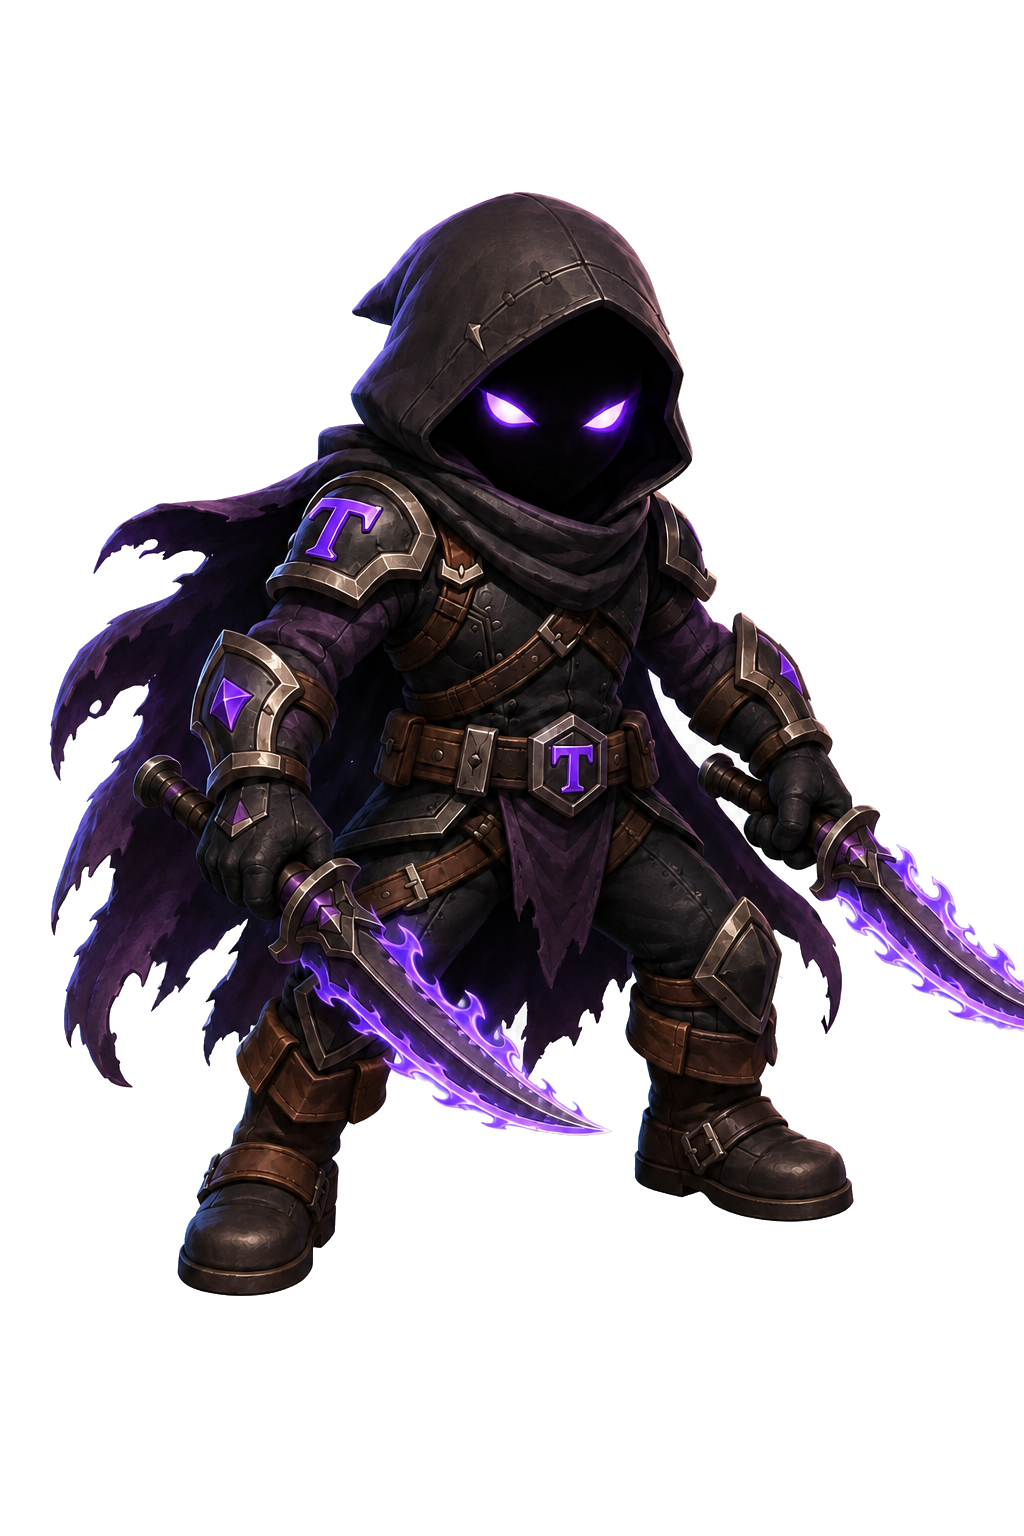
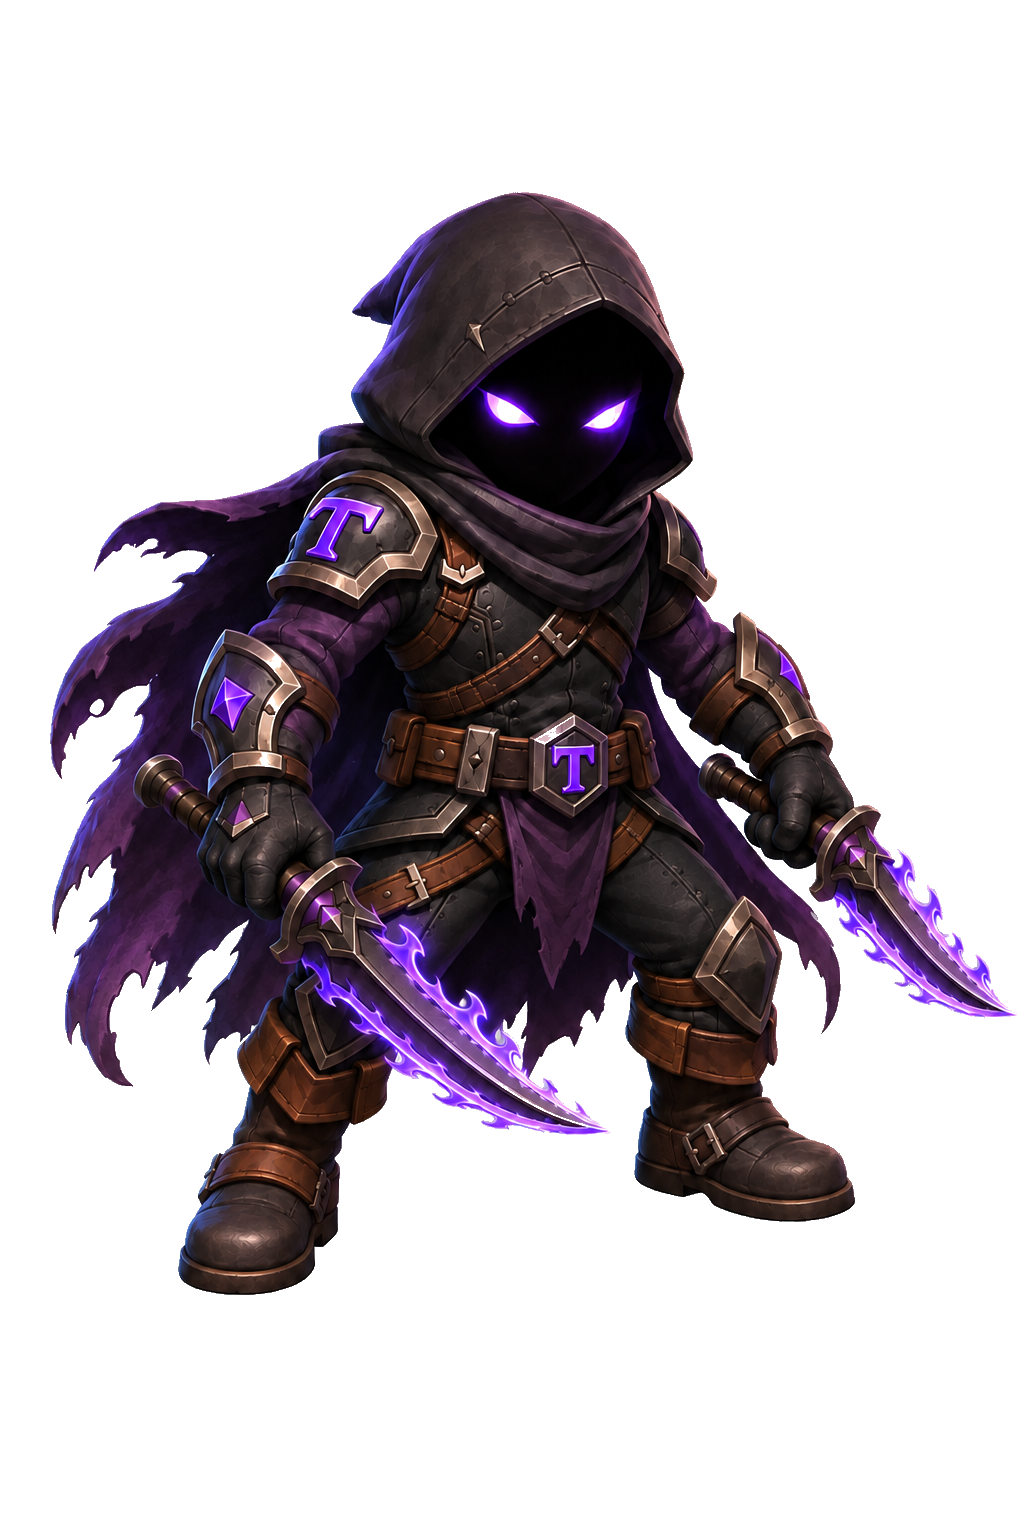
Completa cuchillo de Shadow y envejece teclado con habilidad de Kairos

diff --git a/css/styles.css b/css/styles.css
@@ -17458,30 +17458,60 @@ body.tutorial-combate-real { --ancho-guia: clamp(220px, 27vw, 340px); }
   100% { opacity:0; transform:scale(.85); }
 }
 @media(prefers-reduced-motion:reduce) { .teclado-versus.efecto-calavera-azrak::after { animation:none; } }
-.teclado-versus.efecto-reloj-kairos { isolation: isolate; }
-.teclado-versus.efecto-reloj-kairos button { filter: saturate(.3); cursor: wait; }
+.teclado-versus.efecto-reloj-kairos { isolation: isolate; overflow: clip; }
+.teclado-versus.efecto-reloj-kairos button {
+  position: relative; overflow: hidden; cursor: wait;
+  background: radial-gradient(ellipse at 20% 75%, #a35626 0 12%, transparent 48%),
+    radial-gradient(ellipse at 85% 15%, #b47b37 0 7%, transparent 44%),
+    linear-gradient(145deg, #685a3f, #302b24);
+  color: #e9d7a7; border-color: #9d774a;
+  box-shadow: inset 0 0 7px #160d09, inset 1px 1px 0 #c4a87866;
+  animation: envejecimientoTeclaKairos 2s ease-in-out both;
+}
+.teclado-versus.efecto-reloj-kairos button::before {
+  content: ""; position: absolute; inset: 0; pointer-events: none;
+  background: linear-gradient(117deg, transparent 43%, #1a100bc9 45% 48%, transparent 50%),
+    linear-gradient(35deg, transparent 62%, #d3ad6b80 64%, #160e09c9 66% 68%, transparent 70%);
+  clip-path: polygon(0 0, 65% 0, 58% 35%, 100% 62%, 100% 78%, 50% 49%, 30% 100%, 0 100%);
+  animation: grietasTeclaKairos 2s ease-out both;
+}
+.teclado-versus.efecto-reloj-kairos button:nth-child(3n) { animation-name: envejecimientoTeclaKairosAlterno; }
 .teclado-versus.efecto-reloj-kairos::before {
-  content: ""; position: absolute; inset: -4px; z-index: 30; border-radius: 12px;
-  background: radial-gradient(ellipse, #123a50e8, #071625bc);
-  box-shadow: inset 0 0 22px #60e5ee88; pointer-events: auto;
+  content: ""; position: absolute; inset: 0; z-index: 30;
+  background: transparent; pointer-events: auto;
 }
 .teclado-versus.efecto-reloj-kairos::after {
-  content: ""; position: absolute; inset: 0; z-index: 31; pointer-events: none;
+  content: ""; position: absolute; inset: 4% 0; z-index: 31; pointer-events: none;
   background: url("../assets/images/elementos/reloj-kairos-teclado-v1.png") center / contain no-repeat;
-  filter: drop-shadow(0 0 9px #77efff);
+  filter: drop-shadow(0 0 3px #77efff);
   mix-blend-mode: screen;
   animation: giroRelojKairos 2s ease-in-out both;
 }
 @keyframes giroRelojKairos {
   0% { transform: rotate(-180deg) scale(.5); opacity: 0; }
   12% { opacity: 1; }
-  38% { transform: rotate(0) scale(1.05); }
+  38% { transform: rotate(0) scale(1); }
   48%, 85% { transform: rotate(0) scale(1); opacity: 1; }
   100% { transform: scale(.85); opacity: 0; }
 }
 @media (prefers-reduced-motion: reduce) {
   .teclado-versus.efecto-reloj-kairos::after { animation: none; }
+  .teclado-versus.efecto-reloj-kairos button,
+  .teclado-versus.efecto-reloj-kairos button::before { animation: none; }
 }
+@keyframes envejecimientoTeclaKairos {
+  0% { filter: sepia(0); transform: none; }
+  20% { filter: sepia(.7); transform: translateY(1px) rotate(-1deg); }
+  45%, 83% { filter: sepia(.9) brightness(.75); transform: translateY(2px) rotate(1deg); }
+  100% { filter: none; transform: none; }
+}
+@keyframes envejecimientoTeclaKairosAlterno {
+  0% { filter: sepia(0); transform: none; }
+  22% { filter: sepia(.7); transform: translateY(1px) rotate(1deg); }
+  48%, 83% { filter: sepia(.9) brightness(.75); transform: translateY(2px) rotate(-1deg); }
+  100% { filter: none; transform: none; }
+}
+@keyframes grietasTeclaKairos { 0%, 12% { opacity: 0; } 38%, 85% { opacity: 1; } 100% { opacity: 0; } }
 
 .versus-personaje.entrando-duelo.nivor-aleteando {
   scale: 1.25;

diff --git a/sw.js b/sw.js
@@ -1,5 +1,5 @@
 const CACHE_PREFIX = "aventura-palabras-runtime-";
-const CACHE_NAME = `${CACHE_PREFIX}v282`;
+const CACHE_NAME = `${CACHE_PREFIX}v283`;
 const LEGACY_CACHE_NAMES = new Set([
   `${CACHE_PREFIX}v227`,
   `${CACHE_PREFIX}v226`,
@@ -592,17 +592,17 @@ const ASSET_REVISIONS = {
   "./assets/images/personajes/versus/mago-ataque.png": "20260914-zafir-mano-abierta-1",
   "./css/world-word-hazards.css": "20260914-jaula-fuego",
   "./js/world-word-hazards.js": "20260914-jaula-fuego",
-  "./": "20260915-social-1",
-  "./index.html": "20260915-social-1",
+  "./": "20260915-shadow-kairos-1",
+  "./index.html": "20260915-shadow-kairos-1",
   "./css/player-avatar.css": "20260915-social-1",
   "./js/player-avatar.js": "20260915-social-1",
   "./css/versus-identity.css": "20260915-social-1",
   "./js/versus-identity.js": "20260915-social-1",
-  "./css/styles.css": "20260913-shadow-runas-2",
-  "./js/app.js": "20260915-social-1",
+  "./css/styles.css": "20260915-shadow-kairos-1",
+  "./js/app.js": "20260915-shadow-kairos-1",
   "./js/azrak-world.js": "20260913-shadow-runas-2",
   "./css/azrak-world.css": "20260913-runas-viento-captura-1",
-  "./assets/images/personajes/versus/t-shadow-base.png": "20260902-personajes-chibi-1",
+  "./assets/images/personajes/versus/t-shadow-base.png": "20260915-shadow-kairos-1",
   "./assets/images/personajes/versus/t-shadow-ataque.png": "20260902-personajes-chibi-1",
   "./assets/images/personajes/versus/t-shadow-impacto.png": "20260902-personajes-chibi-1",
   "./assets/images/personajes/versus/t-shadow-victoria.png": "20260902-personajes-chibi-1",

diff --git a/index.html b/index.html
@@ -35,7 +35,7 @@
     <link rel="apple-touch-icon" sizes="180x180" href="assets/icons/apple-touch-icon.png">
     <link rel="preload" as="audio" href="assets/sounds/melodia-menu.mp3" type="audio/mpeg">
     <link rel="preload" as="image" href="assets/images/fondos/menu-inicio-aventura.png">
-    <link rel="stylesheet" href="css/styles.css?v=20260914-busqueda-ranking">
+    <link rel="stylesheet" href="css/styles.css?v=20260915-shadow-kairos-1">
     <link rel="stylesheet" href="css/azrak-world.css?v=20260913-runas-viento-captura-1">
     <link rel="stylesheet" href="css/kairos-forest.css?v=20260908-cinematicas-1">
     <link rel="preload" as="image" href="assets/images/intro/libro-intro-sin-cristal.png">
@@ -1467,7 +1467,7 @@
     <script src="js/kairos-forest.js?v=20260909-musica-continua-1"></script>
     <script src="js/kalamo-desert.js?v=20260909-arco-aren-1"></script>
     <script src="js/world-word-hazards.js?v=20260914-jaula-fuego"></script>
-    <script src="js/app.js?v=20260915-social-1"></script>
+    <script src="js/app.js?v=20260915-shadow-kairos-1"></script>
     <script src="js/pwa.js?v=20260909-recuperar-actualizacion-1"></script>
 </body>
 

diff --git a/js/app.js b/js/app.js
@@ -4530,7 +4530,7 @@ function mostrarRelojKairosVersus() {
   arena.className = "arena-reloj-kairos";
   arena.setAttribute("aria-hidden", "true");
   tecladoVersus.append(arena);
-  tecladoVersus.setAttribute("aria-label", "Kairós detuvo el teclado durante 2 segundos");
+  tecladoVersus.setAttribute("aria-label", "Kairós envejeció el teclado: teclas bloqueadas durante 2 segundos");
   bloquearTecladoDemoVersus();
   temporizadorRelojKairos = setTimeout(() => {
     temporizadorRelojKairos = null;

diff --git a/tools/shadow-repair-prompt.md b/tools/shadow-repair-prompt.md
@@ -1,0 +1,9 @@
+# Corrección de la pose normal de Shadow
+
+Método: herramienta integrada de edición de imágenes. El fondo cuadriculado generado se quitó con Pillow y NumPy, con autorización del usuario. Se conserva el tamaño 1024 × 1536 y se guarda un PNG con transparencia real.
+
+Resultado: `assets/images/personajes/versus/t-shadow-base.png`.
+
+## Prompt del resultado elegido
+
+Edit target: the supplied transparent PNG game sprite of T. Shadow. Fix ONLY the clipped dagger on the viewer's RIGHT: its purple flaming blade currently runs out of the right image edge, cutting off its point. Restore a complete curved sharp tip and purple flame outline with clear transparent padding beyond it. Preserve the exact character identity, neutral standing pose, hood, glowing purple eyes, T insignias, armor, cloak, other dagger, feet, proportions, rendering style and lighting. Keep the original portrait 1024x1536 canvas and character size and position as closely as possible; subtly shorten/curve the right blade inward so its complete point fits comfortably within the canvas, without changing the hand or hilt. Both entire daggers must be visible, with no object touching the image edge. Actual transparent background with clean alpha, no solid background, no checkerboard baked in, no text additions. This is a precise game-asset repair, not a redesign.
